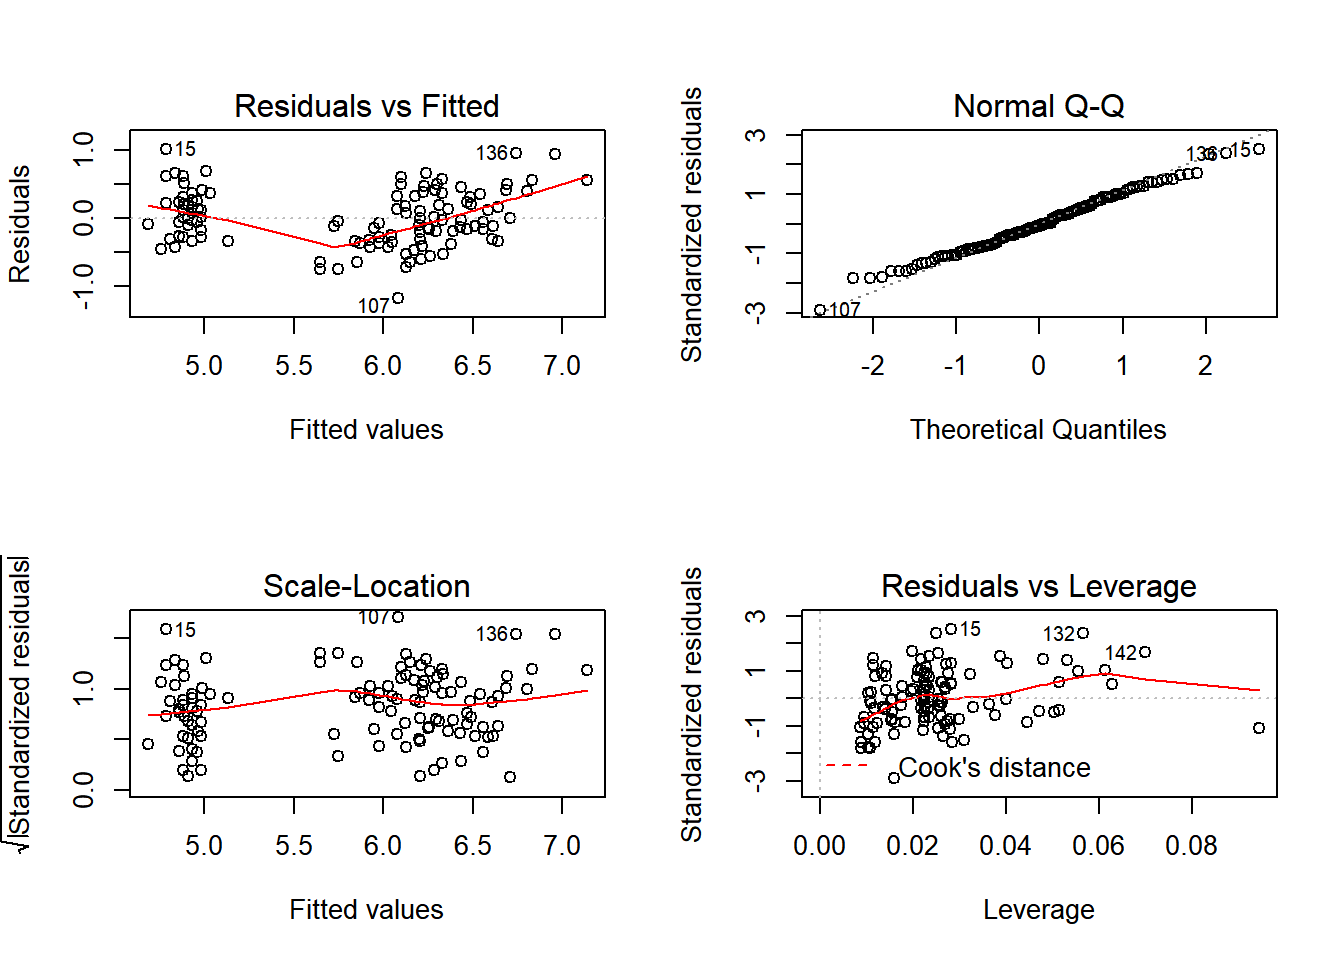
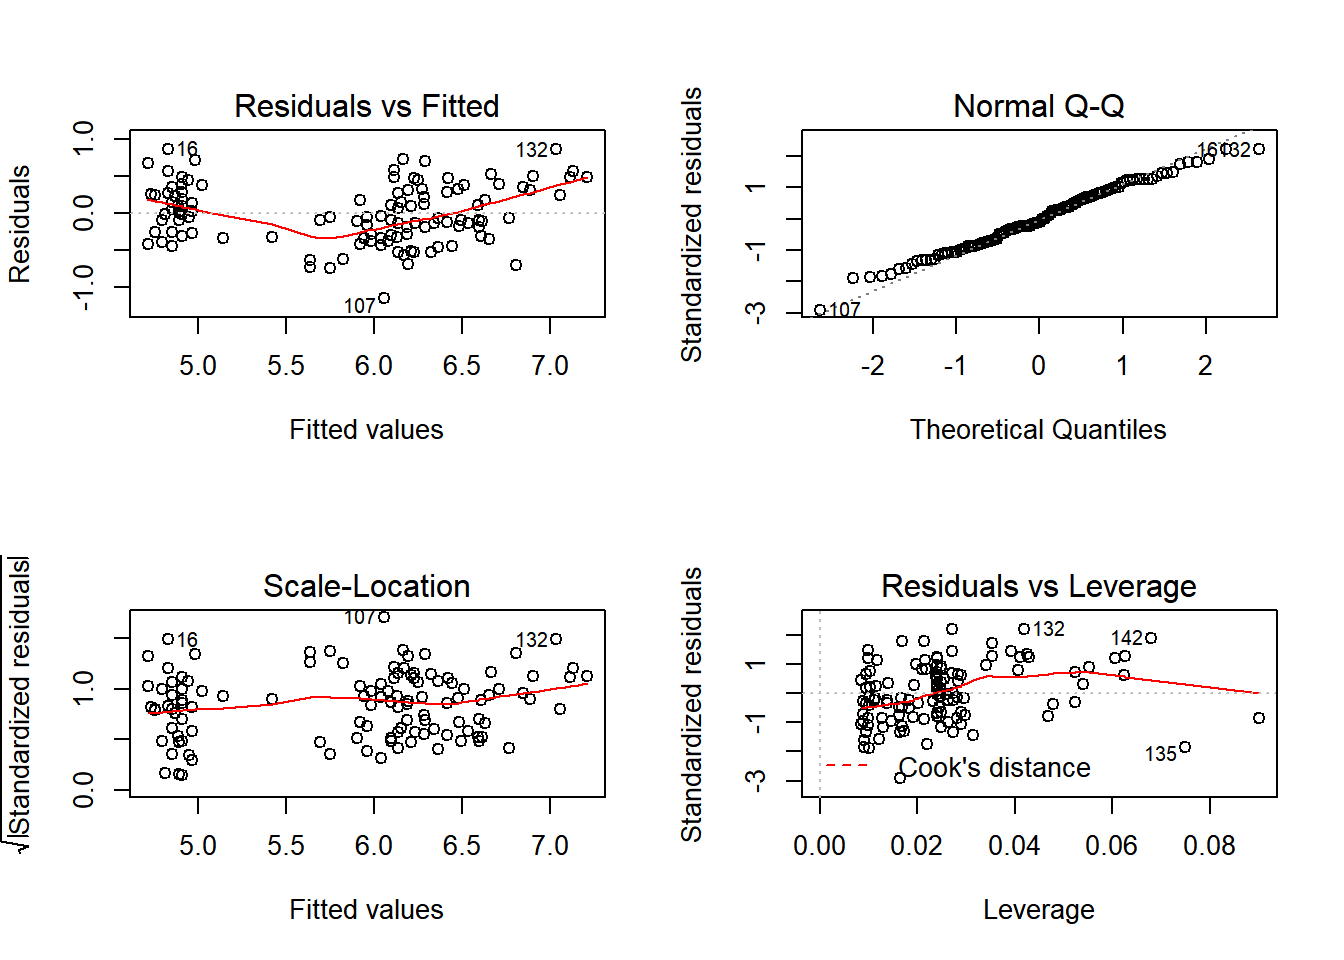
finished writing phi function post

diff --git a/content/post/2018-06-17-first-post.html b/content/post/2018-06-17-first-post.html
@@ -30,20 +30,20 @@ summary(iris_lm)</code></pre>
 ## 
 ## Residuals:
 ##      Min       1Q   Median       3Q      Max 
-## -1.18143 -0.30856 -0.03082  0.31355  1.01589 
+## -1.15417 -0.30771 -0.04347  0.29627  0.87021 
 ## 
 ## Coefficients:
 ##              Estimate Std. Error t value Pr(&gt;|t|)    
-## (Intercept)   4.23175    0.11943  35.434  &lt; 2e-16 ***
-## Petal.Length  0.49919    0.08618   5.792 5.96e-08 ***
-## Petal.Width  -0.23334    0.19251  -1.212    0.228    
+## (Intercept)   4.11962    0.10794  38.164  &lt; 2e-16 ***
+## Petal.Length  0.57798    0.07426   7.783 3.11e-12 ***
+## Petal.Width  -0.39197    0.17184  -2.281   0.0244 *  
 ## ---
 ## Signif. codes:  0 &#39;***&#39; 0.001 &#39;**&#39; 0.01 &#39;*&#39; 0.05 &#39;.&#39; 0.1 &#39; &#39; 1
 ## 
-## Residual standard error: 0.4096 on 117 degrees of freedom
-## Multiple R-squared:  0.7447, Adjusted R-squared:  0.7404 
-## F-statistic: 170.7 on 2 and 117 DF,  p-value: &lt; 2.2e-16</code></pre>
-<p>The corresponding equation for <code>iris_lm</code> model is <span class="math display">\[\hat{y}_i = 4.23 + 0.5x_{1i}  -0.23x_{2i}\]</span> Although all the coefficients show significance in terms of p-value, let’s create diagnostic plots to check if the model fits correctly.</p>
+## Residual standard error: 0.399 on 117 degrees of freedom
+## Multiple R-squared:  0.7746, Adjusted R-squared:  0.7707 
+## F-statistic:   201 on 2 and 117 DF,  p-value: &lt; 2.2e-16</code></pre>
+<p>The corresponding equation for <code>iris_lm</code> model is <span class="math display">\[\hat{y}_i = 4.12 + 0.58x_{1i}  -0.39x_{2i}\]</span> Although all the coefficients show significance in terms of p-value, let’s create diagnostic plots to check if the model fits correctly.</p>
 <pre class="r"><code>par(mfrow = c(2, 2))
 plot(iris_lm)</code></pre>
 <p><img src="/post/2018-06-17-first-post_files/figure-html/unnamed-chunk-3-1.png" width="672" /></p>
@@ -63,15 +63,15 @@ plot(iris_lm_quad)</code></pre>
 ## 
 ## Residuals:
 ##      Min       1Q   Median       3Q      Max 
-## -0.99043 -0.24766 -0.03761  0.22157  0.82690 
+## -1.02406 -0.21390  0.00723  0.23591  0.87644 
 ## 
 ## Coefficients:
 ##                                    Estimate Std. Error t value Pr(&gt;|t|)
-## (Intercept)                         5.10858    0.26741  19.104  &lt; 2e-16
-## poly(Petal.Length, 2, raw = TRUE)1 -0.23246    0.29297  -0.793 0.429144
-## poly(Petal.Length, 2, raw = TRUE)2  0.10776    0.03024   3.564 0.000533
-## poly(Petal.Width, 2, raw = TRUE)1  -0.03862    0.58957  -0.066 0.947889
-## poly(Petal.Width, 2, raw = TRUE)2  -0.09989    0.16066  -0.622 0.535341
+## (Intercept)                         5.11499    0.25740  19.872  &lt; 2e-16
+## poly(Petal.Length, 2, raw = TRUE)1 -0.29319    0.28206  -1.039 0.300764
+## poly(Petal.Length, 2, raw = TRUE)2  0.10352    0.02726   3.797 0.000235
+## poly(Petal.Width, 2, raw = TRUE)1   0.31560    0.57731   0.547 0.585663
+## poly(Petal.Width, 2, raw = TRUE)2  -0.17454    0.15563  -1.122 0.264380
 ##                                       
 ## (Intercept)                        ***
 ## poly(Petal.Length, 2, raw = TRUE)1    
@@ -81,9 +81,9 @@ plot(iris_lm_quad)</code></pre>
 ## ---
 ## Signif. codes:  0 &#39;***&#39; 0.001 &#39;**&#39; 0.01 &#39;*&#39; 0.05 &#39;.&#39; 0.1 &#39; &#39; 1
 ## 
-## Residual standard error: 0.3651 on 115 degrees of freedom
-## Multiple R-squared:  0.8006, Adjusted R-squared:  0.7937 
-## F-statistic: 115.4 on 4 and 115 DF,  p-value: &lt; 2.2e-16</code></pre>
+## Residual standard error: 0.3555 on 115 degrees of freedom
+## Multiple R-squared:  0.8241, Adjusted R-squared:  0.8179 
+## F-statistic: 134.7 on 4 and 115 DF,  p-value: &lt; 2.2e-16</code></pre>
 <p>Judging from the summary, it is evident that the quadratic polynomial for <code>Petal.Width</code> is not very significant. Let’s remove that predictor and see how the model turns out.</p>
 <pre class="r"><code>iris_lm_quad &lt;- update(iris_lm_quad, Sepal.Length ~ poly(Petal.Length, 2, raw = TRUE) + Petal.Width)
 summary(iris_lm_quad)</code></pre>
@@ -94,14 +94,14 @@ summary(iris_lm_quad)</code></pre>
 ## 
 ## Residuals:
 ##      Min       1Q   Median       3Q      Max 
-## -0.97391 -0.27949 -0.04329  0.21732  0.84691 
+## -0.99457 -0.22096 -0.00029  0.22785  0.87272 
 ## 
 ## Coefficients:
-##                                    Estimate Std. Error t value Pr(&gt;|t|)
-## (Intercept)                         4.98030    0.16967  29.353  &lt; 2e-16
-## poly(Petal.Length, 2, raw = TRUE)1 -0.06818    0.12622  -0.540   0.5901
-## poly(Petal.Length, 2, raw = TRUE)2  0.09193    0.01625   5.657 1.13e-07
-## Petal.Width                        -0.38888    0.17336  -2.243   0.0268
+##                                     Estimate Std. Error t value Pr(&gt;|t|)
+## (Intercept)                         4.897726   0.169687  28.863  &lt; 2e-16
+## poly(Petal.Length, 2, raw = TRUE)1 -0.009269   0.124526  -0.074   0.9408
+## poly(Petal.Length, 2, raw = TRUE)2  0.077184   0.013859   5.569 1.68e-07
+## Petal.Width                        -0.308480   0.154025  -2.003   0.0475
 ##                                       
 ## (Intercept)                        ***
 ## poly(Petal.Length, 2, raw = TRUE)1    
@@ -110,9 +110,9 @@ summary(iris_lm_quad)</code></pre>
 ## ---
 ## Signif. codes:  0 &#39;***&#39; 0.001 &#39;**&#39; 0.01 &#39;*&#39; 0.05 &#39;.&#39; 0.1 &#39; &#39; 1
 ## 
-## Residual standard error: 0.3642 on 116 degrees of freedom
-## Multiple R-squared:  0.7999, Adjusted R-squared:  0.7948 
-## F-statistic: 154.6 on 3 and 116 DF,  p-value: &lt; 2.2e-16</code></pre>
+## Residual standard error: 0.3559 on 116 degrees of freedom
+## Multiple R-squared:  0.8221, Adjusted R-squared:  0.8175 
+## F-statistic: 178.7 on 3 and 116 DF,  p-value: &lt; 2.2e-16</code></pre>
 <p>Now all the predictors are significant with the exception for the first order polynomial for <code>Petal.Length</code>. Nonetheless, I have to respect the hierarchy of higher order terms, so I’ll keep the coefficient.</p>
 <p>The summary suggests that the model is statistically significant, and has the R-squared value of roughly 0.8. I’ll use this model to predict the <code>Sepal.Length</code> with the test dataset created in the beginning of this post.</p>
 <pre class="r"><code>y &lt;- iris_test[,&quot;Sepal.Length&quot;]
@@ -120,5 +120,5 @@ y_hat &lt;- predict(iris_lm_quad, iris_test[,c(&quot;Petal.Length&quot;, &quot;P
 
 #calculate Root Mean Squared Error
 rmse &lt;- sqrt(sum((y - y_hat)^2)/length(y))</code></pre>
-<p>I used Root Mean Square Error to quantify the accuracy of the model, and it came out to be 0.352.</p>
+<p>I used Root Mean Square Error to quantify the accuracy of the model, and it came out to be 0.379.</p>
 <p>This marks the end of my first post. As I continue this blog, I hope to learn statistics and the models more in depth and become more adept at coming up with creative solutions for data analysis problems!</p>

diff --git a/content/post/2019-10-08-the-phi-function.en.html b/content/post/2019-10-08-the-phi-function.en.html
@@ -1,0 +1,25 @@
+---
+title: The Phi Function
+author: John Lee
+date: '2019-10-08'
+slug: the-phi-function
+categories: []
+tags: []
+subtitle: ''
+---
+
+
+
+<p>I frequently encounter the <span class="math inline">\(\Phi\)</span> and <span class="math inline">\(\Phi^{-1}\)</span> functions in statistical texts. For some reason, the notation always throws me off guard, and I have to spend a few minutes visualizing. This post draws a definitive link between the functions and corresponding graphs. This ought to help me save some time and build more solid understanding of the concepts that make use of this.</p>
+<p>The <span class="math inline">\(\Phi\)</span> function is simply cumulative distribution function, <span class="math inline">\(F\)</span>, of a standard normal distribution.</p>
+<p><span class="math display">\[\Phi(z) = \int_{-\infty}^z\dfrac{1}{\sqrt{2\pi}\sigma}e^{-\frac{(x-\sigma)^2}{2\sigma^2}}dx\]</span></p>
+<p>It denotes the probability of a standard normal random variable taking a value smaller than or equal to the value <span class="math inline">\(z\)</span>. In other words, the function returns the quantile of z. <a href="http://mathworld.wolfram.com/NormalDistributionFunction.html">Some sources</a> may have slightly different definition to it, but the spirit remains the same.</p>
+<p>Depending on how you want to visualize it, the output of <span class="math inline">\(\Phi\)</span> can be visualized using p.d.f. and c.d.f.</p>
+<p><img src="/post/2019-10-08-the-phi-function.en_files/figure-html/draw_pdf-1.png" width="672" /><img src="/post/2019-10-08-the-phi-function.en_files/figure-html/draw_pdf-2.png" width="672" /></p>
+<p>The arrows point to the output of the function. On p.d.f., it is the area under the curve until the point <span class="math inline">\(z\)</span>. On c.d.f., it is the point on the curve when <span class="math inline">\(x = z\)</span>.</p>
+<p>The <span class="math inline">\(\Phi\)</span> function may be brought up in the hypothesis testing context. What should be remembered is that the domain of the function is that of a <strong>standardized normal variable</strong>. The output won’t make sense if the input is from an arbitrary normal distribution. If you have a value that comes from a non-stanardized normal distribution (I don’t know if that’s an actual term), you’ll have to standardize it first to find the quantile.</p>
+<p>If I have value of -20.5 from some population <span class="math inline">\(p\)</span> that assumes normal distribution where <span class="math inline">\(\mu = -10\)</span> and <span class="math inline">\(\sigma^2 = 5^2\)</span>, <span class="math display">\[F_p(-20.5) = \Phi\big(\frac{-20.5 - (-10)}{5}\big) = \Phi(-2.1)\]</span></p>
+<p><span class="math inline">\(\Phi^{-1}\)</span> is no more complicated than its inverse. The notation itself doesn’t necessarily come to me as second nature, as would mathematical notations like <span class="math inline">\(+\)</span>, <span class="math inline">\(\otimes\)</span>, and <span class="math inline">\(\int\)</span>. So I like to translate the function into words. <span class="math inline">\(\Phi^{-1}(q)\)</span> is essentially <em>a standard normal variable in qth quantile</em>.</p>
+<p><img src="/post/2019-10-08-the-phi-function.en_files/figure-html/phi_inverse-1.png" width="672" /></p>
+<p>That’s all there is to it folks. <span class="math inline">\(\Phi(z)\)</span> accepts a value that is a standard normal random variable and spits out the corresponding quantile, while <span class="math inline">\(\Phi^{-1}\)</span> accepts a quantile, <span class="math inline">\(q \in [0,1]\)</span>, and returns the corresponding z-value.</p>
+<p>This topic is by no means complicated, but by forcing myself to write about this trivial topic and create visuals definitely helps me become more familiar with these kinds of notations. Building this familiarity with statistical terms comes in handy especially when I’m trying to read through journals or textbooks fluently without the need to stop and think about what the letters mean. Now I can spare myself a few minutes from having to remember what <span class="math inline">\(\Phi^{-1}\)</span> means :).</p>
